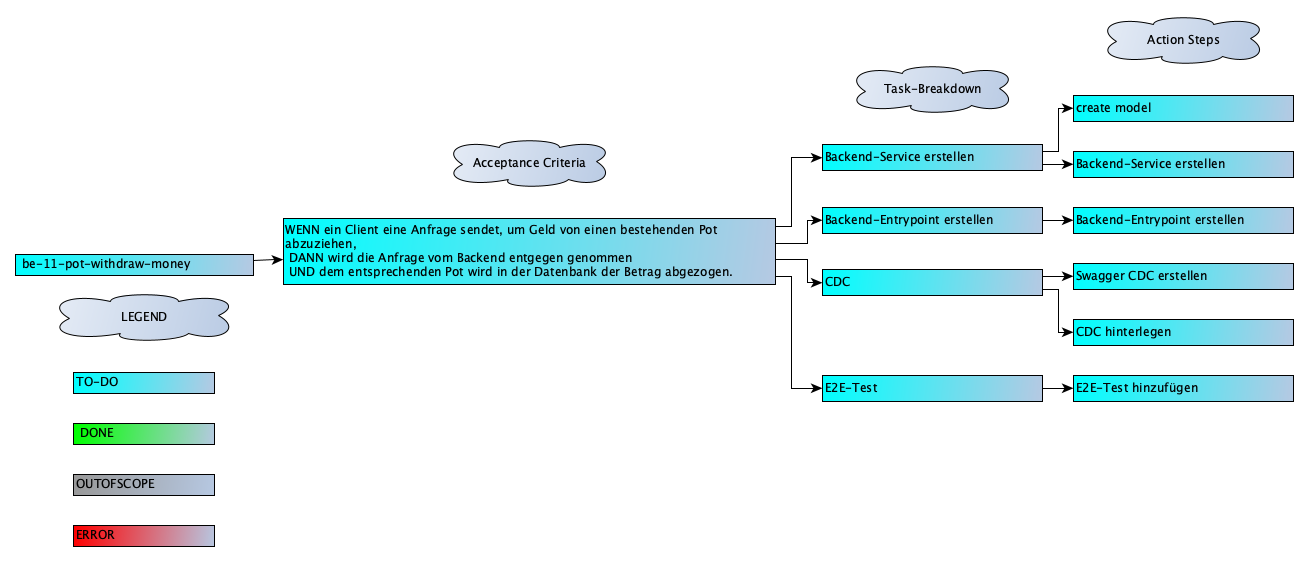
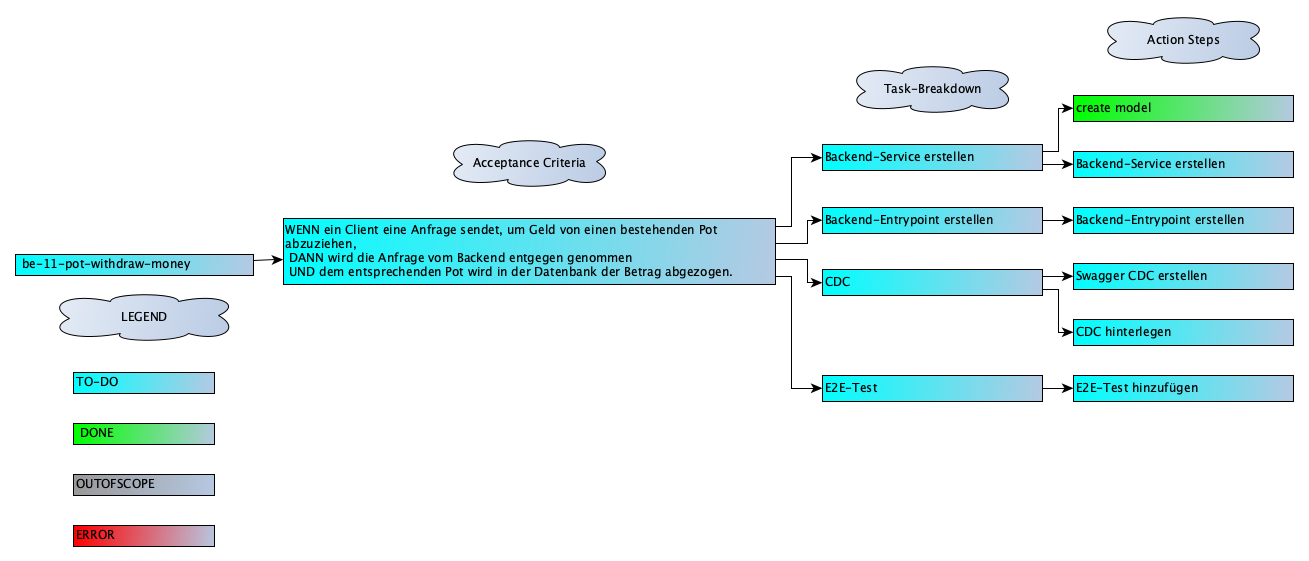
be-11 add model APIPotSubtractionDTO

Changed region(s): [[0.7945, 0.1515, 0.9778, 0.2424]]

diff --git a/backend/src/model/apis/APIPotSubtractionDTO.ts b/backend/src/model/apis/APIPotSubtractionDTO.ts
@@ -1,0 +1,18 @@
+import { IsInt, IsString } from 'class-validator';
+import { ApiProperty } from '@nestjs/swagger';
+
+export class APIPotSubtractionDTO {
+  @ApiProperty({
+    description: 'The name of the pot',
+    example: 'Holiday',
+  })
+  @IsString()
+  potName: string;
+
+  @ApiProperty({
+    description: 'The amount of money to substract from the pot',
+    example: 1000,
+  })
+  @IsInt()
+  amountToSubstract: number;
+}

diff --git a/frontend/src/model/api/APIPotSubtractionDTO.ts b/frontend/src/model/api/APIPotSubtractionDTO.ts
@@ -1,0 +1,4 @@
+export interface APIPotSubtractionDTO {
+  potName: string;
+  amountToSubstract: number;
+}
